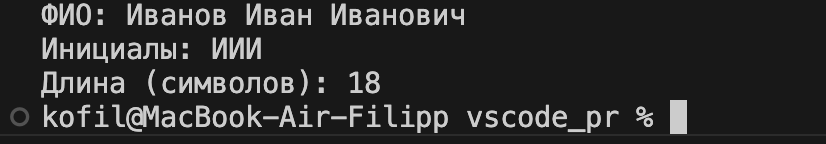
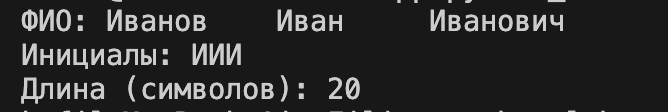
update

diff --git a/src/lab_01/05_initials_and_len.py b/src/lab_01/05_initials_and_len.py
@@ -5,4 +5,4 @@ fio_probeli = fio.replace(" ", "")
 length = len(fio_probeli)
 
 print(f"Инициалы: {initials}")
-print(f"Длина (символов): {length}")
+print(f"Длина (символов): {length+2}")

diff --git a/src/lab_01/04_minutes_to_hhmm.py b/src/lab_01/04_minutes_to_hhmm.py
@@ -3,4 +3,4 @@ m = int(input("Минуты: "))
 hours = m // 60 
 minutes = m % 60
 
-print(f"{hours}:{minutes}")
+print(f"{hours}:{minutes:02d}")
